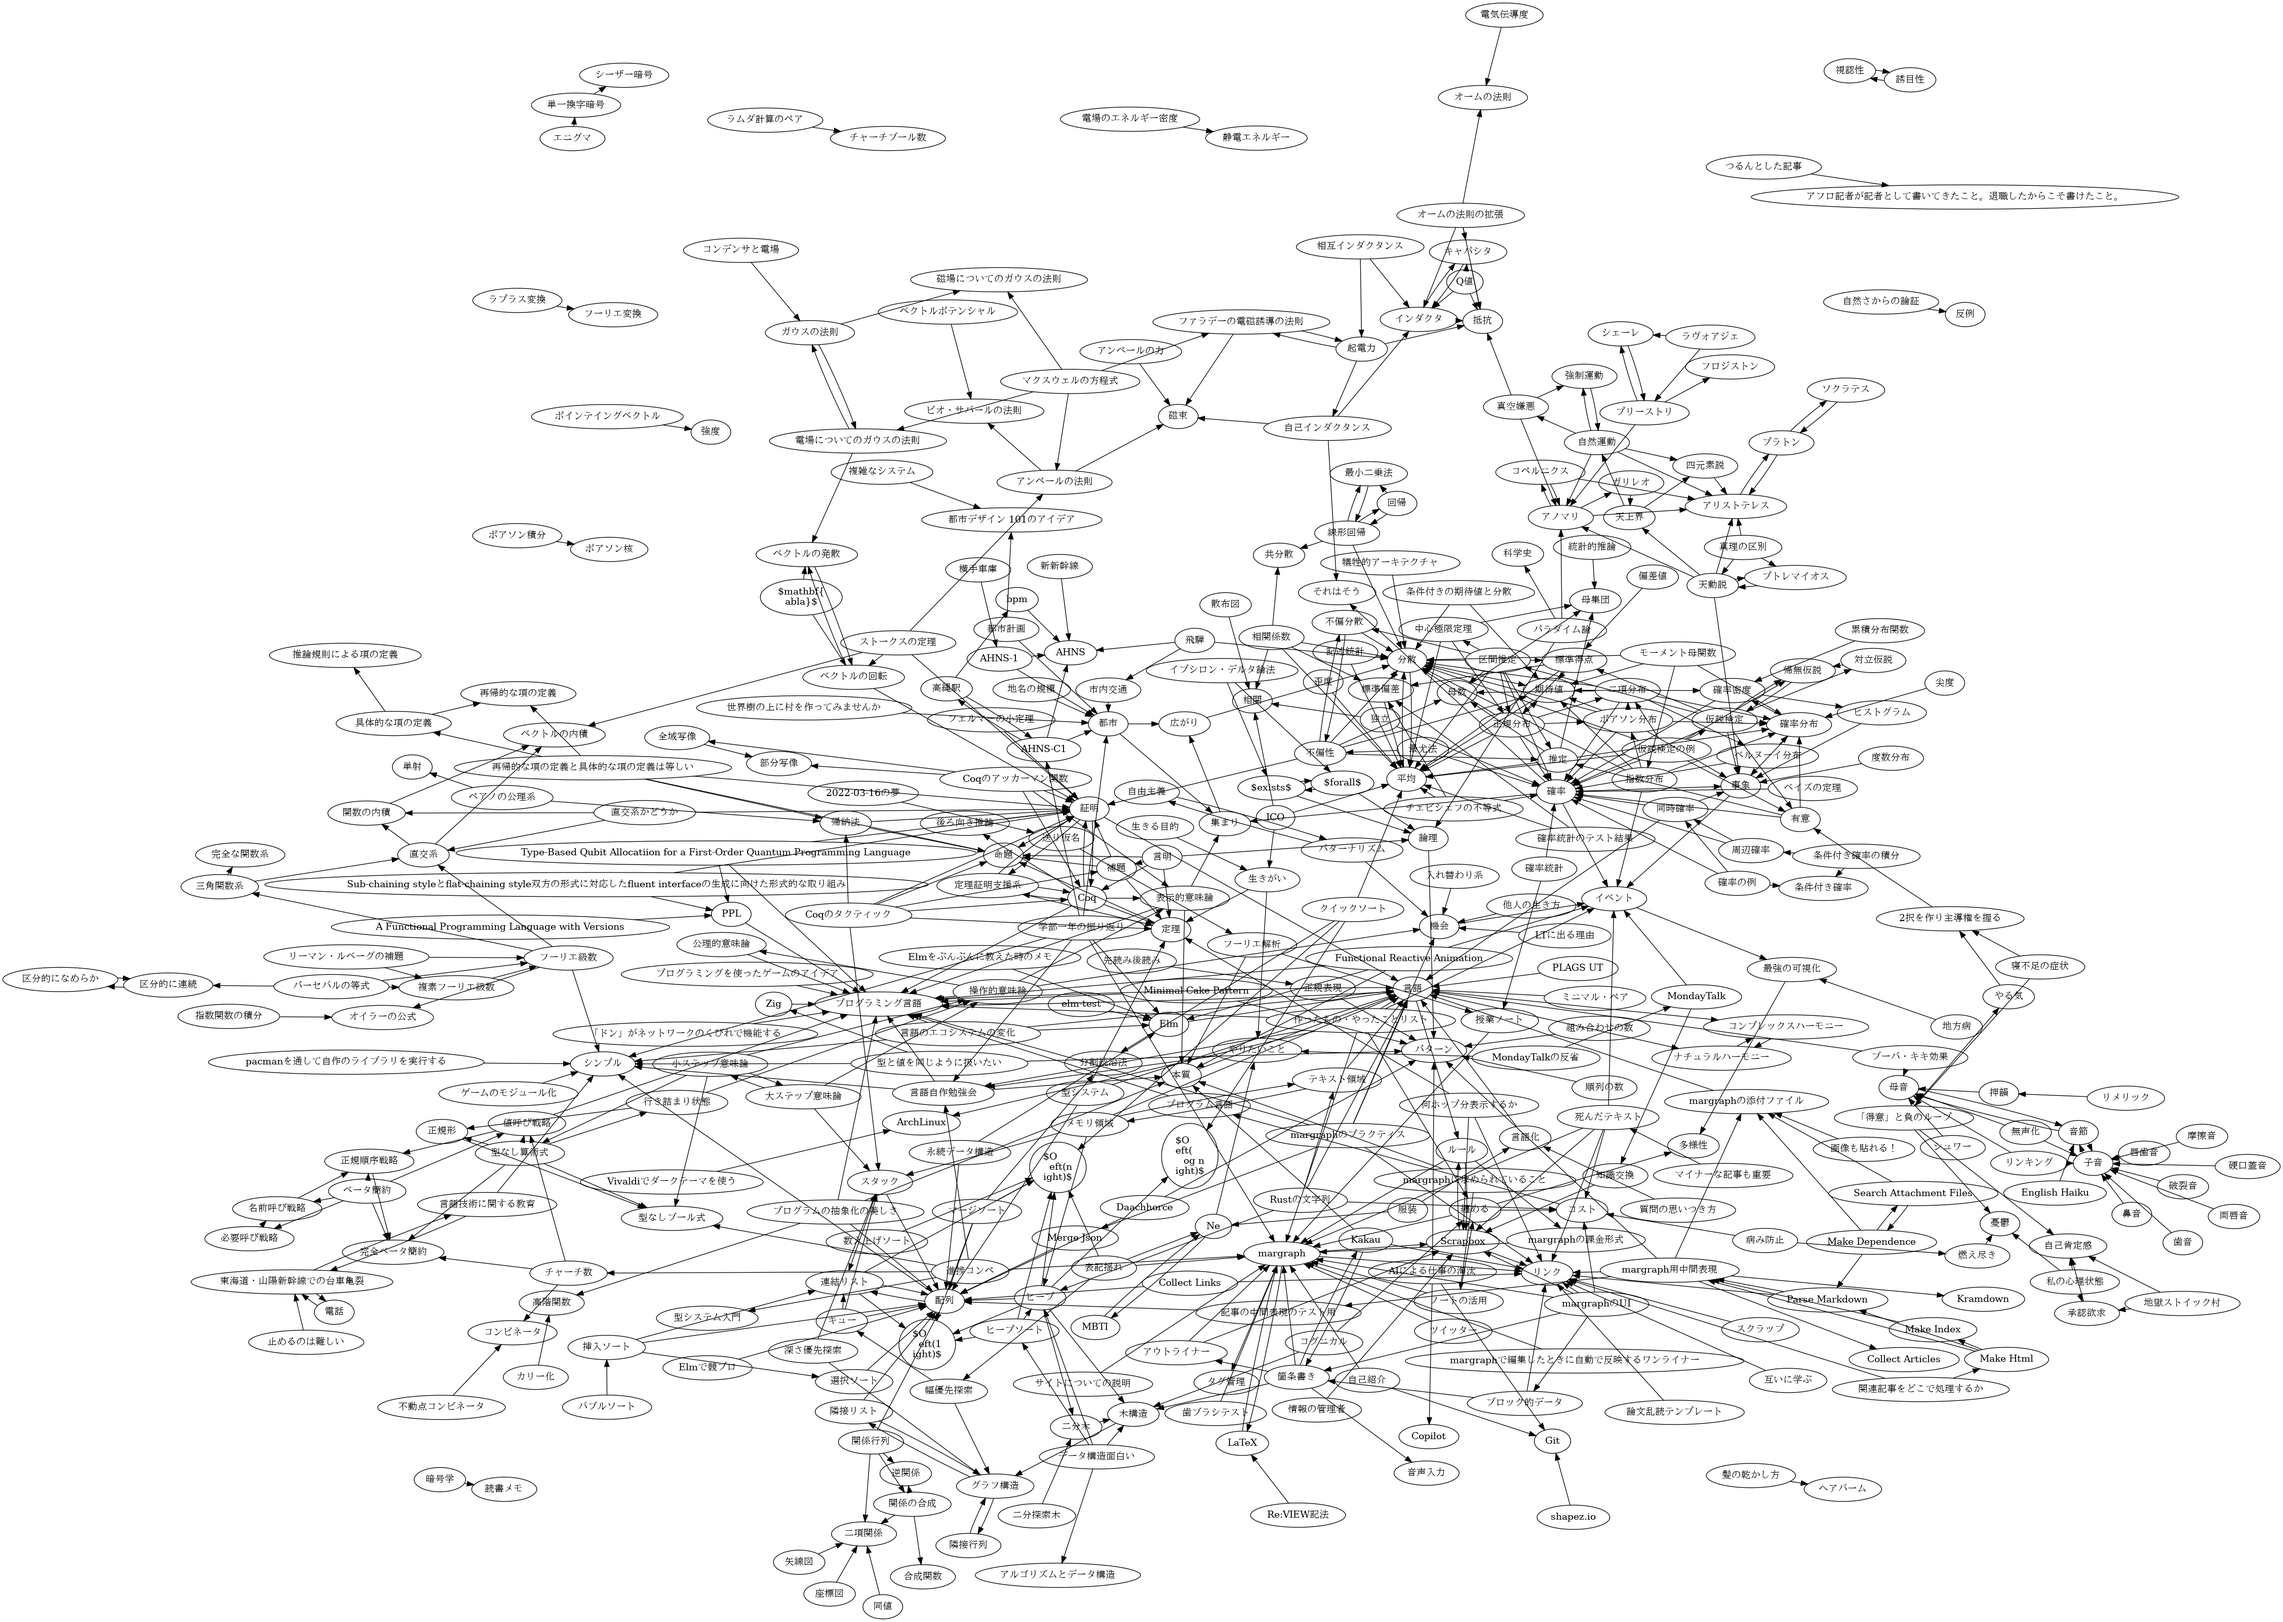
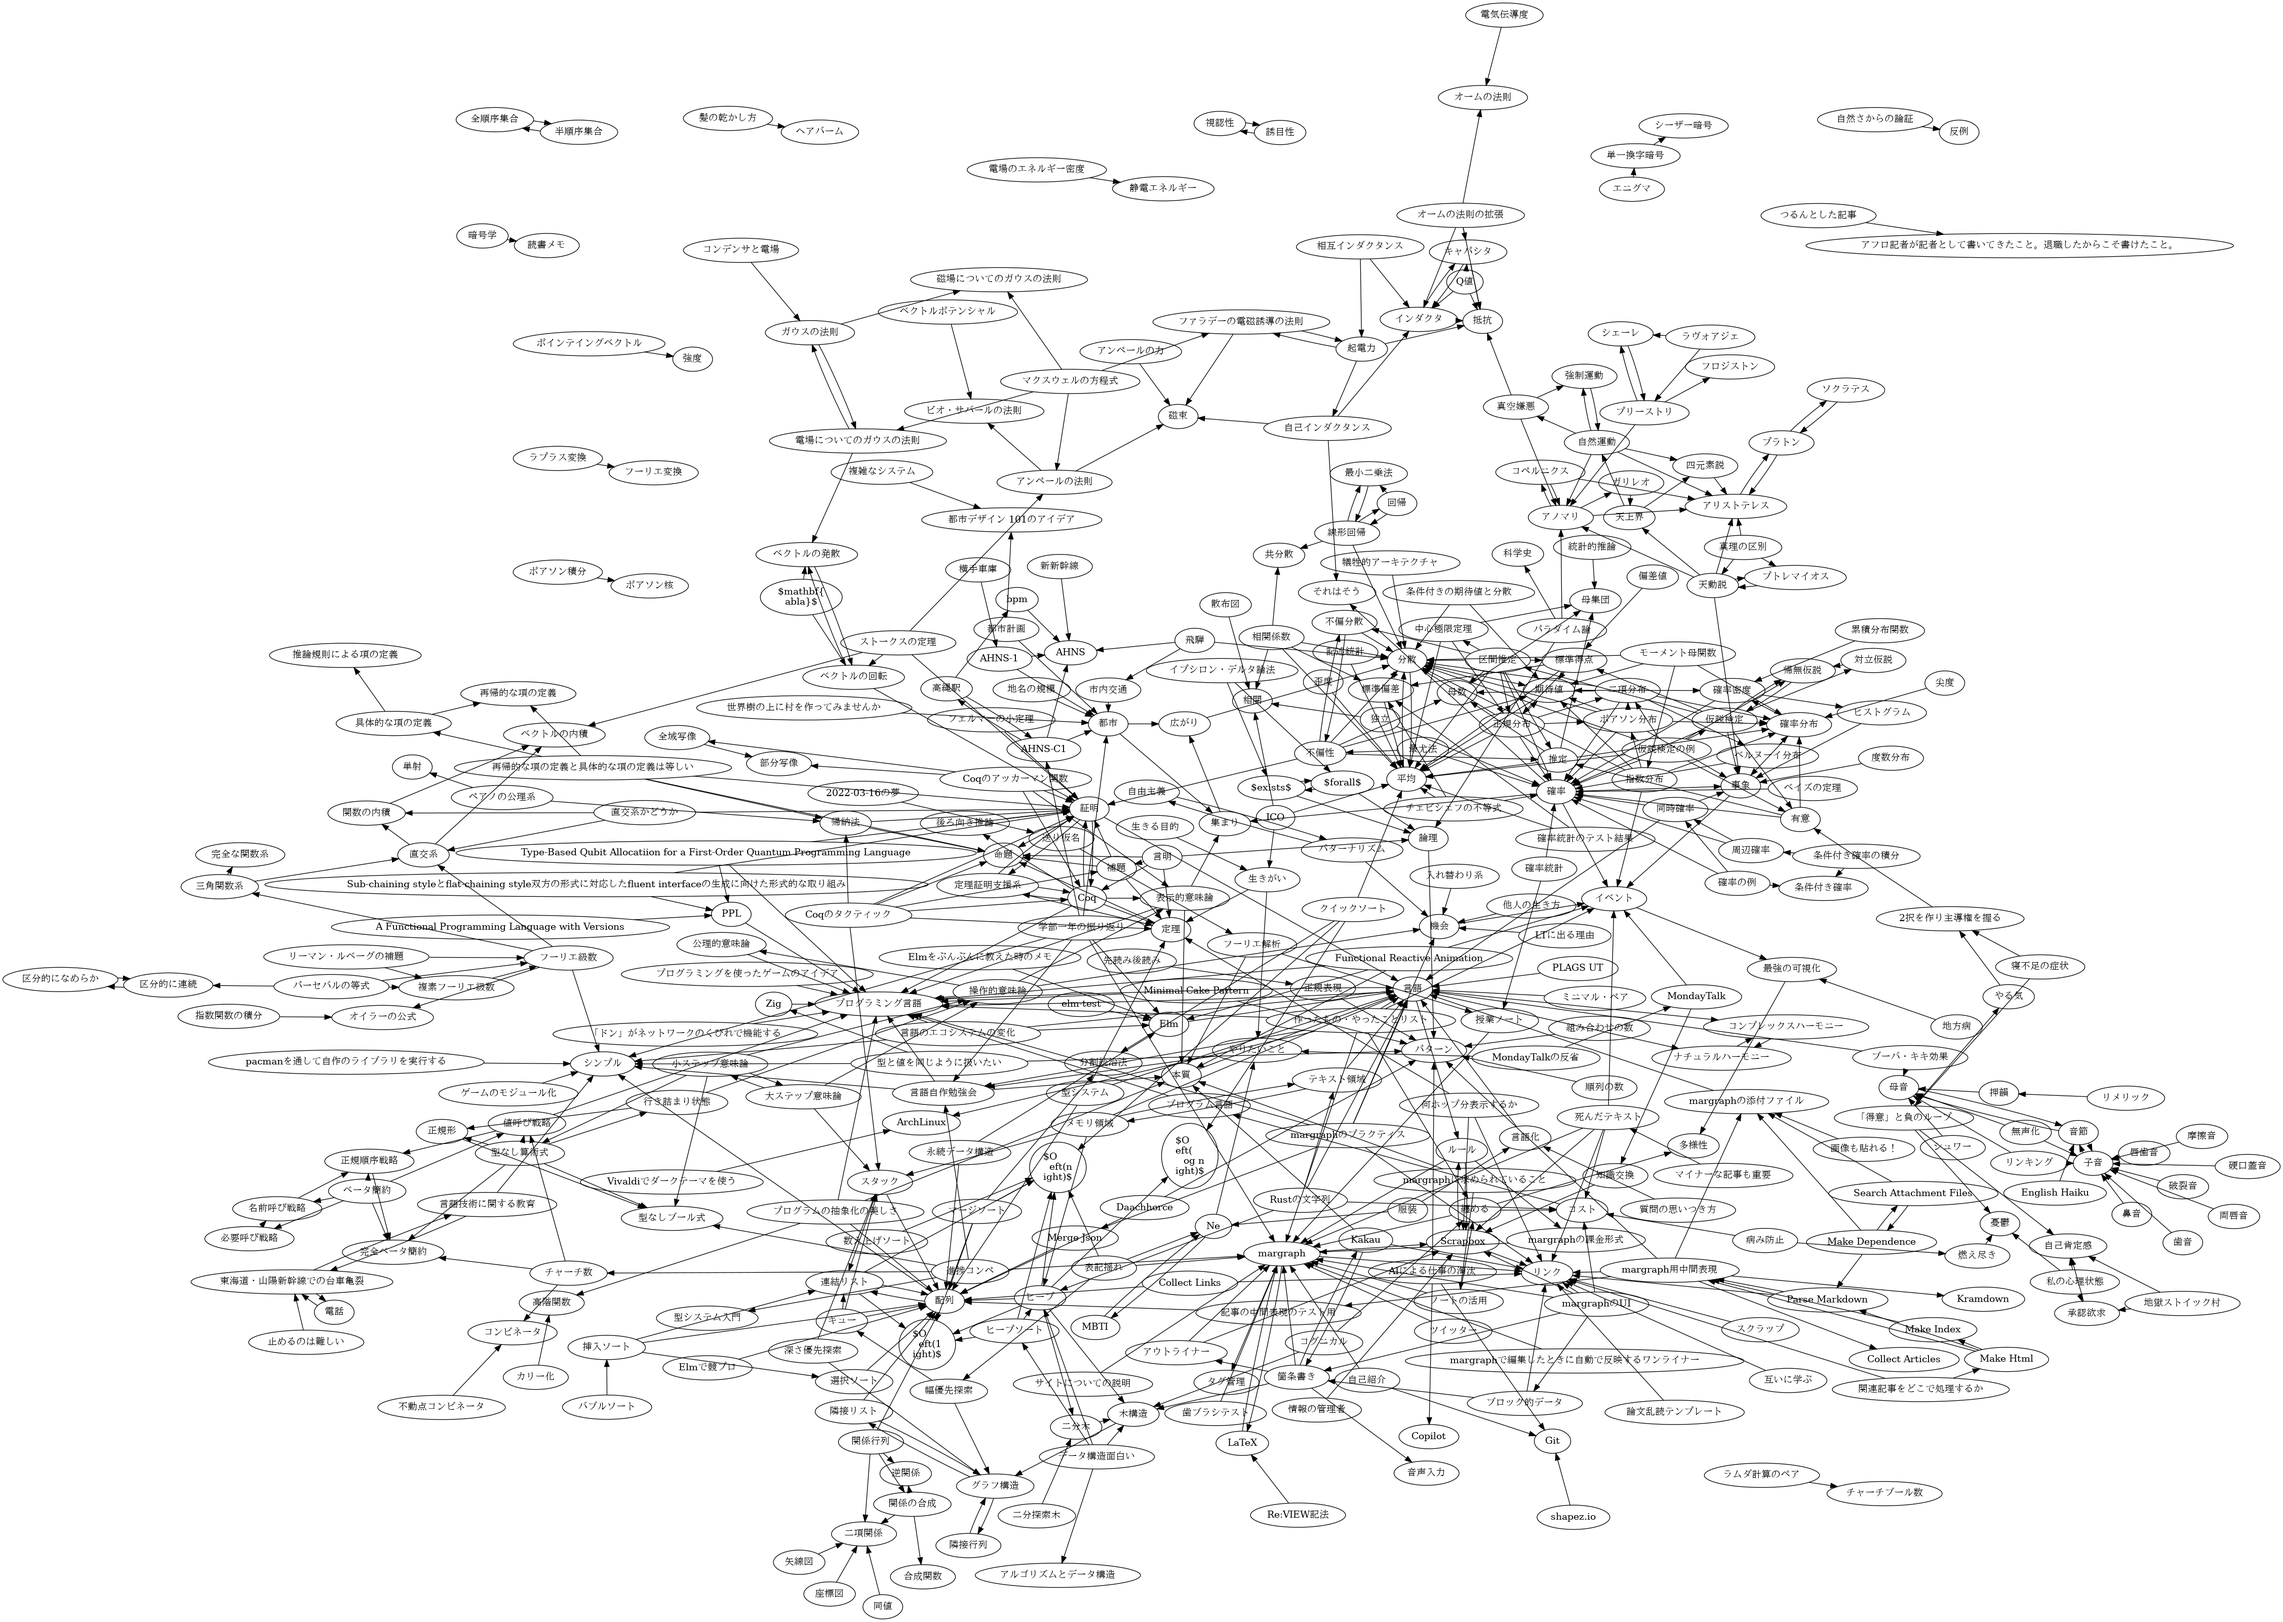
deploy: 7a49d8c0f79cbd2a3d9cc8c99da3383313486219

diff --git a/math/semi-ordered-set.html b/math/semi-ordered-set.html
@@ -7,7 +7,7 @@
     <link rel="stylesheet" href="https://cdn.jsdelivr.net/npm/bootstrap-dark-5@1.1.3/dist/css/bootstrap-nightfall.min.css" media="(prefers-color-scheme: dark)">
     <link rel="stylesheet" href="https://cdnjs.cloudflare.com/ajax/libs/highlight.js/11.3.1/styles/base16/ashes.min.css">
     <link rel="stylesheet" href="../style.css" type="text/css">
-    <title>スターリングの公式</title>
+    <title>半順序集合</title>
   </head>
   <body>
     
@@ -19,22 +19,34 @@
           
             <li class="breadcrumb-item"><a href="../math/index.html">math</a></li>
           
-          <li class="breadcrumb-item">スターリングの公式</li>
+          <li class="breadcrumb-item">半順序集合</li>
         </ol>
       </div>
     </nav>
 
     <article class="container" style="max-width: 40em;">
 
-      <h1>スターリングの公式</h1>
+      <h1>半順序集合</h1>
 
       
         <div class="contents">
         
             
               <div><ul>
-  <li>$n! \sim \sqrt{2 \pi n} n^n e^{-n}$</li>
-  <li>階乗の近似</li>
+  <li>集合S上の関係Rが任意の $a, b, c \in S$ に対して、以下の条件を満たすとき、S上の半順序と呼ぶ
+    <ul>
+      <li>反射的 $aRa$</li>
+      <li>反対称的 $aRb, bRa \to a=b$</li>
+      <li>推移的 $aRb, bRc \to aRc$</li>
+    </ul>
+  </li>
+  <li>半順序集合では任意の要素に対して関係Rが成り立つことを要求していない
+    <ul>
+      <li>$\forall a,b \in S, aRb$ は成り立たない</li>
+      <li>これを条件に加えたものが<a href="../math/full-ordered-set.html">全順序集合</a></li>
+      <li>ひし形みたいな関係になりうる</li>
+    </ul>
+  </li>
 </ul>
 </div>
             
@@ -55,7 +67,7 @@
             <div class="col">
               
                 前の記事<br />
-                <a href="../math/semi-ordered-set.html">半順序集合</a>
+                <a href="../math/prove.html">証明</a>
               
             </div>
             <div class="col">
@@ -67,7 +79,7 @@
             <div class="col">
               
                 次の記事<br />
-                <a href="../math/surjection.html">全射</a>
+                <a href="../math/stirlings-formula.html">スターリングの公式</a>
               
             </div>
           </div>
@@ -76,13 +88,25 @@
 
       <div class="d-flex flex-row-reverse">
         
-          <button type="button" class="btn btn-outline-primary btn-sm" onclick="window.location.href='https://github.com/soukouki/margraph/edit/master/src/math/stirlings-formula.md';">Edit</button>
+          <button type="button" class="btn btn-outline-primary btn-sm" onclick="window.location.href='https://github.com/soukouki/margraph/edit/master/src/math/semi-ordered-set.md';">Edit</button>
         
         
       </div>
 
       
       <div class="link-network">
+        
+          <div class="row flex-nowrap overflow-auto">
+            <div class="col-4">
+              <div class="card h-100">
+                <div class="card-body">
+                  <h5 class="card-title fs-6"><a href="../math/full-ordered-set.html">全順序集合</a></h5>
+                  <p class="card-text">- 半順序集合の条件に加えて、$\forall a,b \in...</p>
+                </div>
+              </div>
+            </div>
+            
+          </div>
         
       </div>
       

diff --git a/math/full-ordered-set.html b/math/full-ordered-set.html
@@ -7,7 +7,7 @@
     <link rel="stylesheet" href="https://cdn.jsdelivr.net/npm/bootstrap-dark-5@1.1.3/dist/css/bootstrap-nightfall.min.css" media="(prefers-color-scheme: dark)">
     <link rel="stylesheet" href="https://cdnjs.cloudflare.com/ajax/libs/highlight.js/11.3.1/styles/base16/ashes.min.css">
     <link rel="stylesheet" href="../style.css" type="text/css">
-    <title>スターリングの公式</title>
+    <title>全順序集合</title>
   </head>
   <body>
     
@@ -19,22 +19,25 @@
           
             <li class="breadcrumb-item"><a href="../math/index.html">math</a></li>
           
-          <li class="breadcrumb-item">スターリングの公式</li>
+          <li class="breadcrumb-item">全順序集合</li>
         </ol>
       </div>
     </nav>
 
     <article class="container" style="max-width: 40em;">
 
-      <h1>スターリングの公式</h1>
+      <h1>全順序集合</h1>
 
       
         <div class="contents">
         
             
               <div><ul>
-  <li>$n! \sim \sqrt{2 \pi n} n^n e^{-n}$</li>
-  <li>階乗の近似</li>
+  <li><a href="../math/semi-ordered-set.html">半順序集合</a>の条件に加えて、$\forall a,b \in S, aRb$ が成り立つときに全順序集合になる
+    <ul>
+      <li>順序の関係が一本の鎖になるような感じ</li>
+    </ul>
+  </li>
 </ul>
 </div>
             
@@ -55,7 +58,7 @@
             <div class="col">
               
                 前の記事<br />
-                <a href="../math/semi-ordered-set.html">半順序集合</a>
+                <a href="../math/forall.html">$\forall$</a>
               
             </div>
             <div class="col">
@@ -67,7 +70,7 @@
             <div class="col">
               
                 次の記事<br />
-                <a href="../math/surjection.html">全射</a>
+                <a href="../math/function-composite.html">合成関数</a>
               
             </div>
           </div>
@@ -76,13 +79,25 @@
 
       <div class="d-flex flex-row-reverse">
         
-          <button type="button" class="btn btn-outline-primary btn-sm" onclick="window.location.href='https://github.com/soukouki/margraph/edit/master/src/math/stirlings-formula.md';">Edit</button>
+          <button type="button" class="btn btn-outline-primary btn-sm" onclick="window.location.href='https://github.com/soukouki/margraph/edit/master/src/math/full-ordered-set.md';">Edit</button>
         
         
       </div>
 
       
       <div class="link-network">
+        
+          <div class="row flex-nowrap overflow-auto">
+            <div class="col-4">
+              <div class="card h-100">
+                <div class="card-body">
+                  <h5 class="card-title fs-6"><a href="../math/semi-ordered-set.html">半順序集合</a></h5>
+                  <p class="card-text">- 集合S上の関係Rが任意の $a, b, c \in S$ ...</p>
+                </div>
+              </div>
+            </div>
+            
+          </div>
         
       </div>
       

diff --git a/math/index.html b/math/index.html
@@ -81,6 +81,10 @@
           </div>
         
           <div class="list-group-item">
+            <a href="../math/full-ordered-set.html">全順序集合</a>
+          </div>
+        
+          <div class="list-group-item">
             <a href="../math/function-composite.html">合成関数</a>
           </div>
         
@@ -126,6 +130,10 @@
         
           <div class="list-group-item">
             <a href="../math/prove.html">証明</a>
+          </div>
+        
+          <div class="list-group-item">
+            <a href="../math/semi-ordered-set.html">半順序集合</a>
           </div>
         
           <div class="list-group-item">

diff --git a/math/prove.html b/math/prove.html
@@ -71,7 +71,7 @@
             <div class="col">
               
                 次の記事<br />
-                <a href="../math/stirlings-formula.html">スターリングの公式</a>
+                <a href="../math/semi-ordered-set.html">半順序集合</a>
               
             </div>
           </div>

diff --git a/math/forall.html b/math/forall.html
@@ -77,7 +77,7 @@
             <div class="col">
               
                 次の記事<br />
-                <a href="../math/function-composite.html">合成関数</a>
+                <a href="../math/full-ordered-set.html">全順序集合</a>
               
             </div>
           </div>

diff --git a/math/function-composite.html b/math/function-composite.html
@@ -59,7 +59,7 @@
             <div class="col">
               
                 前の記事<br />
-                <a href="../math/forall.html">$\forall$</a>
+                <a href="../math/full-ordered-set.html">全順序集合</a>
               
             </div>
             <div class="col">
